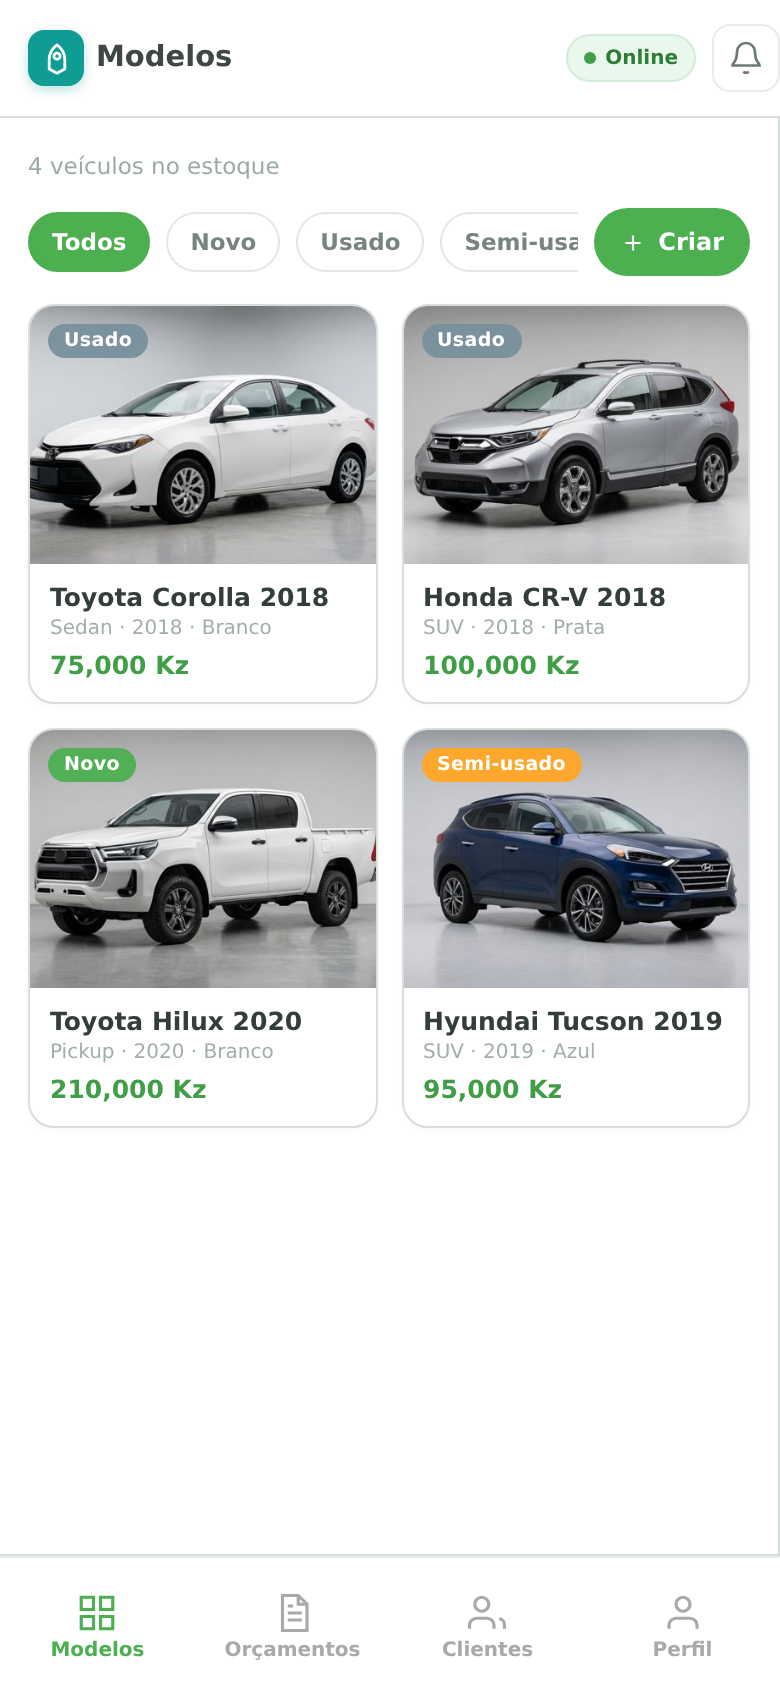
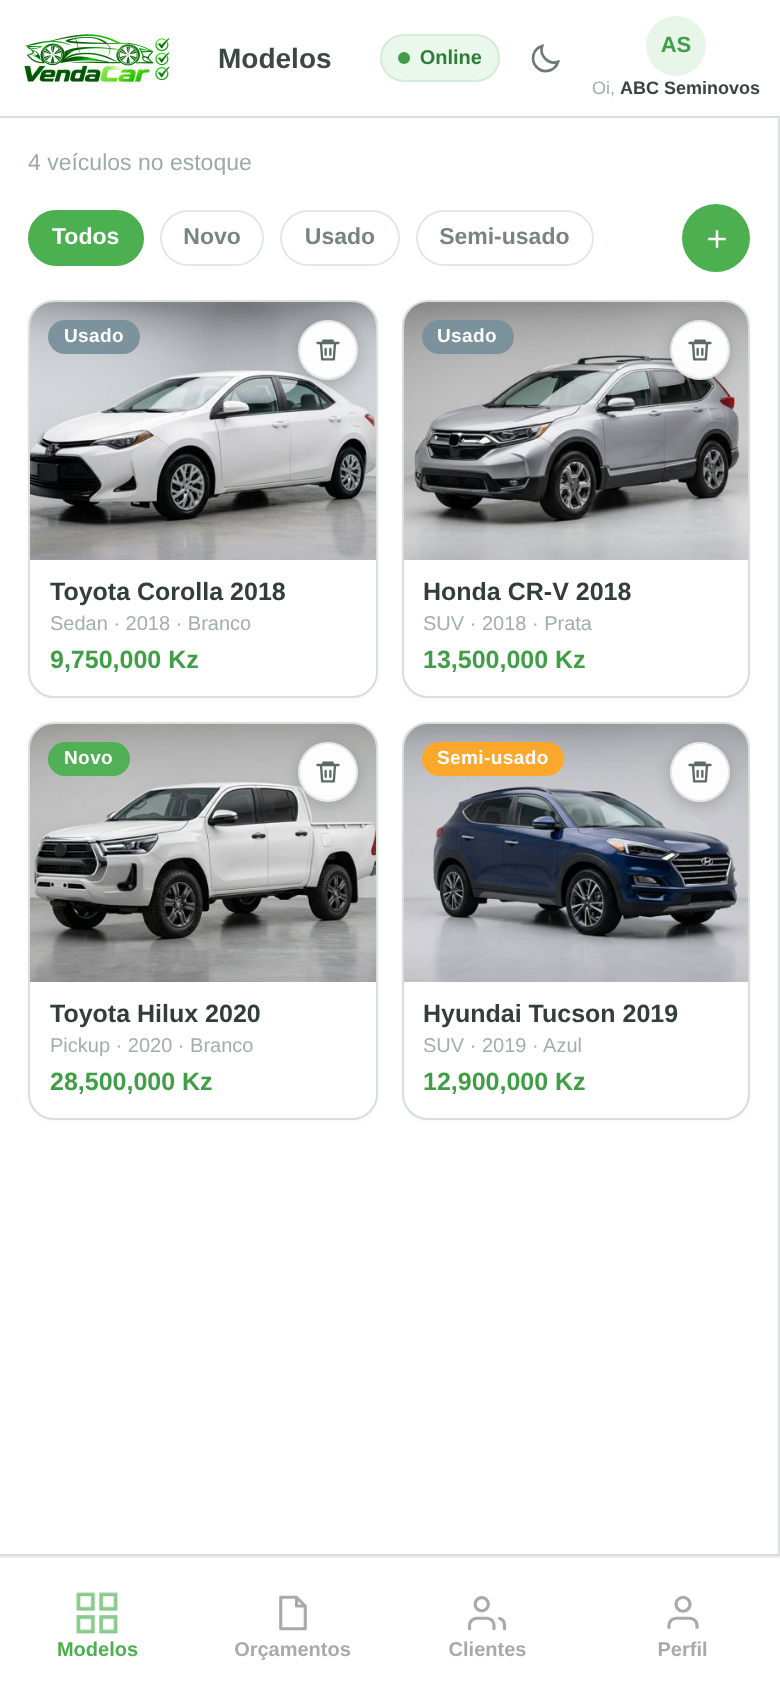
Mapa de paginas atualizado: 32 capturas reais (8 paginas x desktop/telemovel x claro/escuro)

diff --git a/paginas/mapa-temas.html b/paginas/mapa-temas.html
@@ -1,0 +1,179 @@
+<!DOCTYPE html>
+<html lang="pt">
+<head>
+<meta charset="utf-8">
+<style>
+  *{box-sizing:border-box;margin:0;padding:0}
+  body{width:1500px;font-family:"DejaVu Sans",Arial,sans-serif;color:#2B352F;background:#fff}
+
+  /* ---------- CAPA ---------- */
+  .hero{position:relative;height:300px;overflow:hidden;background:#07302c}
+  .hero img{width:100%;height:100%;object-fit:cover;object-position:right center;display:block;opacity:.9}
+  .hero .ov{
+    position:absolute;inset:0;display:flex;flex-direction:column;justify-content:center;padding:0 64px;
+    background:linear-gradient(90deg,rgba(5,38,34,.97) 0%,rgba(5,38,34,.92) 48%,rgba(5,38,34,.18) 84%,rgba(5,38,34,0) 100%);
+  }
+  .kick{font-size:13px;letter-spacing:3.4px;text-transform:uppercase;color:#7FE3C4;font-weight:700}
+  .hero h1{font-size:46px;line-height:1.06;color:#fff;font-weight:800;letter-spacing:-1px;margin:14px 0 10px}
+  .hero p{font-size:16.5px;color:#C8E6DA;max-width:720px;line-height:1.5}
+  .hero .meta{margin-top:16px;font-size:13px;color:#8FBDB0}
+
+  /* ---------- FAIXA ---------- */
+  .strip{display:flex;background:#3F9E46}
+  .strip div{flex:1;padding:18px 26px;border-right:1px solid rgba(255,255,255,.22)}
+  .strip div:last-child{border:0}
+  .strip b{display:block;font-size:30px;color:#fff;font-weight:800;line-height:1;letter-spacing:-.5px}
+  .strip span{display:block;margin-top:6px;font-size:12px;color:#E4F6E0}
+
+  /* ---------- SECÇÕES ---------- */
+  .sec{padding:38px 64px 0}
+  .sec h2{font-size:23px;color:#0E7A55;font-weight:800;letter-spacing:-.3px;display:flex;align-items:baseline;gap:11px}
+  .sec h2 em{font-style:normal;font-size:14px;color:#B7C7C0;letter-spacing:1px;font-weight:800}
+  .rule{height:3px;width:70px;background:#3F9E46;border-radius:2px;margin:9px 0 20px}
+  .sec .lead{font-size:15px;line-height:1.6;color:#46544C;max-width:1140px;margin-bottom:22px}
+
+  /* subtítulo de tema */
+  .tema{display:flex;align-items:center;gap:10px;margin:6px 0 16px}
+  .tema .dot{width:9px;height:9px;border-radius:50%}
+  .tema .dot.claro{background:#FFD166;box-shadow:0 0 0 3px #FDF3D6}
+  .tema .dot.escuro{background:#17375e;box-shadow:0 0 0 3px #E2EAF4}
+  .tema b{font-size:15.5px;color:#1F2A26;font-weight:800}
+  .tema span{font-size:12.5px;color:#7C8B85}
+
+  /* ---------- DESKTOP ---------- */
+  .dg{display:grid;grid-template-columns:1fr 1fr;gap:24px}
+  .shot{background:#fff;border:1px solid #D8DEDB;border-radius:12px;overflow:hidden}
+  .shot.dk{border-color:#17375e}
+  .shot img{width:100%;display:block}
+  .cap{display:flex;align-items:center;gap:9px;padding:11px 14px;border-top:1px solid #EDF1EF;background:#FBFCFB}
+  .cap .n{width:21px;height:21px;border-radius:50%;background:#3F9E46;color:#fff;font-size:11.5px;
+          font-weight:800;display:flex;align-items:center;justify-content:center;flex:0 0 auto}
+  .cap .t{font-size:13.5px;font-weight:800;color:#2B352F}
+  .cap .s{font-size:12px;color:#7C8B85;margin-left:auto}
+
+  /* ---------- MOBILE ---------- */
+  .band{background:#F4F8F6;margin-top:44px;padding:36px 64px 44px;border-top:1px solid #E3EBE7}
+  .band.dkb{background:#EEF2F7;border-top-color:#D9E3EF}
+  .band h2{font-size:23px;color:#0E7A55;font-weight:800}
+  .band p{font-size:14.5px;color:#46544C;line-height:1.6;margin-top:8px;max-width:1140px}
+  .mg{display:grid;grid-template-columns:repeat(4,1fr);gap:26px;margin-top:26px}
+  .phone .fr{border-radius:22px;overflow:hidden;border:5px solid #10241F;background:#10241F;
+             box-shadow:0 10px 26px rgba(16,36,31,.22)}
+  .phone.dk .fr{border-color:#0b2038;background:#0b2038;box-shadow:0 10px 26px rgba(11,32,56,.3)}
+  .phone img{width:100%;display:block}
+  .phone .c{text-align:center;margin-top:10px;font-size:12.5px;color:#5C6B64;font-weight:700}
+  .phone .c span{display:block;font-weight:600;font-size:11.5px;color:#93A39D;margin-top:2px}
+
+  /* ---------- RODAPÉ ---------- */
+  .foot{background:#07302c;color:#A9CFC4;padding:24px 64px;display:flex;justify-content:space-between;
+        align-items:center;margin-top:44px;font-size:12.5px}
+  .foot b{color:#fff;font-size:14px;display:block;margin-bottom:4px}
+</style>
+</head>
+<body>
+
+<section class="hero">
+  <img src="../proposta/img/capa.png" alt="">
+  <div class="ov">
+    <div class="kick">Mapa de páginas · claro e escuro</div>
+    <h1>Todas as páginas, nos dois temas</h1>
+    <p>As 8 páginas da aplicação Modelo no computador e no telemóvel, em modo claro e em modo escuro — 32 capturas reais do mesmo ficheiro HTML, sem maquetes.</p>
+    <div class="meta">ABC Seminovos · Luanda, Angola &nbsp;|&nbsp; Versão 1.0 &nbsp;|&nbsp; 07 de novembro de 2026</div>
+  </div>
+</section>
+
+<section class="strip">
+  <div><b>8</b><span>páginas</span></div>
+  <div><b>2</b><span>modos: desktop e telemóvel</span></div>
+  <div><b>2</b><span>temas: claro e escuro</span></div>
+  <div><b>32</b><span>capturas reais</span></div>
+</section>
+
+<!-- ================= COMPUTADOR ================= -->
+<section class="sec">
+  <h2><em>01</em> No computador</h2>
+  <div class="rule"></div>
+  <p class="lead">Barra lateral fixa, área de conteúdo com moldura cinzenta e appbar enxuta (tema + foto de perfil da loja). O mesmo esqueleto nos dois temas: no escuro, os painéis passam a azul-marinho, as molduras a azul e a página ativa fica verde.</p>
+
+  <div class="tema"><span class="dot claro"></span><b>Modo claro</b><span>fundo branco · molduras cinzentas · verde VendaCar</span></div>
+  <div class="dg">
+    <div class="shot"><img src="desktop/01-modelos.png" alt="">
+      <div class="cap"><span class="n">1</span><span class="t">Modelos</span><span class="s">Catálogo, filtros e “+”</span></div></div>
+    <div class="shot"><img src="desktop/02-detalhe.png" alt="">
+      <div class="cap"><span class="n">2</span><span class="t">Detalhe do Carro</span><span class="s">Galeria e ficha técnica</span></div></div>
+    <div class="shot"><img src="desktop/03-orcamento.png" alt="">
+      <div class="cap"><span class="n">3</span><span class="t">Orçamento</span><span class="s">Simulação · IVA 14% à parte</span></div></div>
+    <div class="shot"><img src="desktop/04-orcamentos.png" alt="">
+      <div class="cap"><span class="n">4</span><span class="t">Orçamentos</span><span class="s">Histórico de simulações</span></div></div>
+    <div class="shot"><img src="desktop/05-orcamento-edicao.png" alt="">
+      <div class="cap"><span class="n">5</span><span class="t">Orçamento · edição</span><span class="s">Detalhe e alteração</span></div></div>
+    <div class="shot"><img src="desktop/06-clientes.png" alt="">
+      <div class="cap"><span class="n">6</span><span class="t">Clientes</span><span class="s">Agrupados por telefone</span></div></div>
+    <div class="shot"><img src="desktop/07-cliente.png" alt="">
+      <div class="cap"><span class="n">7</span><span class="t">Cliente</span><span class="s">Orçamentos e reenvio</span></div></div>
+    <div class="shot"><img src="desktop/08-perfil.png" alt="">
+      <div class="cap"><span class="n">8</span><span class="t">Perfil</span><span class="s">Loja, foto e preferências</span></div></div>
+  </div>
+
+  <div class="tema" style="margin-top:34px"><span class="dot escuro"></span><b>Modo escuro</b><span>fundo azul-marinho · molduras azuis · página ativa em verde</span></div>
+  <div class="dg">
+    <div class="shot dk"><img src="desktop-escuro/01-modelos.png" alt="">
+      <div class="cap"><span class="n">1</span><span class="t">Modelos</span><span class="s">Catálogo, filtros e “+”</span></div></div>
+    <div class="shot dk"><img src="desktop-escuro/02-detalhe.png" alt="">
+      <div class="cap"><span class="n">2</span><span class="t">Detalhe do Carro</span><span class="s">Galeria e ficha técnica</span></div></div>
+    <div class="shot dk"><img src="desktop-escuro/03-orcamento.png" alt="">
+      <div class="cap"><span class="n">3</span><span class="t">Orçamento</span><span class="s">Simulação · IVA 14% à parte</span></div></div>
+    <div class="shot dk"><img src="desktop-escuro/04-orcamentos.png" alt="">
+      <div class="cap"><span class="n">4</span><span class="t">Orçamentos</span><span class="s">Histórico de simulações</span></div></div>
+    <div class="shot dk"><img src="desktop-escuro/05-orcamento-edicao.png" alt="">
+      <div class="cap"><span class="n">5</span><span class="t">Orçamento · edição</span><span class="s">Detalhe e alteração</span></div></div>
+    <div class="shot dk"><img src="desktop-escuro/06-clientes.png" alt="">
+      <div class="cap"><span class="n">6</span><span class="t">Clientes</span><span class="s">Agrupados por telefone</span></div></div>
+    <div class="shot dk"><img src="desktop-escuro/07-cliente.png" alt="">
+      <div class="cap"><span class="n">7</span><span class="t">Cliente</span><span class="s">Orçamentos e reenvio</span></div></div>
+    <div class="shot dk"><img src="desktop-escuro/08-perfil.png" alt="">
+      <div class="cap"><span class="n">8</span><span class="t">Perfil</span><span class="s">Loja, foto e preferências</span></div></div>
+  </div>
+</section>
+
+<!-- ================= TELEMÓVEL — CLARO ================= -->
+<section class="band">
+  <h2>No telemóvel · modo claro</h2>
+  <p>O mesmo ficheiro, adaptado: appbar única com título, estado “Online”, botão de tema e foto de perfil com o cumprimento “Oi, …”; menu inferior com as quatro áreas; grelha de 2 colunas e tabelas convertidas em cartões próprios para toque.</p>
+
+  <div class="mg">
+    <div class="phone"><div class="fr"><img src="mobile/01-modelos.png" alt=""></div><div class="c">Modelos<span>1</span></div></div>
+    <div class="phone"><div class="fr"><img src="mobile/02-detalhe.png" alt=""></div><div class="c">Detalhe do Carro<span>2</span></div></div>
+    <div class="phone"><div class="fr"><img src="mobile/03-orcamento.png" alt=""></div><div class="c">Orçamento<span>3</span></div></div>
+    <div class="phone"><div class="fr"><img src="mobile/04-orcamentos.png" alt=""></div><div class="c">Orçamentos<span>4</span></div></div>
+    <div class="phone"><div class="fr"><img src="mobile/05-orcamento-edicao.png" alt=""></div><div class="c">Orçamento · edição<span>5</span></div></div>
+    <div class="phone"><div class="fr"><img src="mobile/06-clientes.png" alt=""></div><div class="c">Clientes<span>6</span></div></div>
+    <div class="phone"><div class="fr"><img src="mobile/07-cliente.png" alt=""></div><div class="c">Cliente<span>7</span></div></div>
+    <div class="phone"><div class="fr"><img src="mobile/08-perfil.png" alt=""></div><div class="c">Perfil<span>8</span></div></div>
+  </div>
+</section>
+
+<!-- ================= TELEMÓVEL — ESCURO ================= -->
+<section class="band dkb" style="margin-top:0">
+  <h2>No telemóvel · modo escuro</h2>
+  <p>A mesma estrutura com a paleta azul-marinho: appbar e menu inferior escuros, cápsula “Online” verde-escura, barra de navegação com a área ativa em verde e cartões com moldura azul.</p>
+
+  <div class="mg">
+    <div class="phone dk"><div class="fr"><img src="mobile-escuro/01-modelos.png" alt=""></div><div class="c">Modelos<span>1</span></div></div>
+    <div class="phone dk"><div class="fr"><img src="mobile-escuro/02-detalhe.png" alt=""></div><div class="c">Detalhe do Carro<span>2</span></div></div>
+    <div class="phone dk"><div class="fr"><img src="mobile-escuro/03-orcamento.png" alt=""></div><div class="c">Orçamento<span>3</span></div></div>
+    <div class="phone dk"><div class="fr"><img src="mobile-escuro/04-orcamentos.png" alt=""></div><div class="c">Orçamentos<span>4</span></div></div>
+    <div class="phone dk"><div class="fr"><img src="mobile-escuro/05-orcamento-edicao.png" alt=""></div><div class="c">Orçamento · edição<span>5</span></div></div>
+    <div class="phone dk"><div class="fr"><img src="mobile-escuro/06-clientes.png" alt=""></div><div class="c">Clientes<span>6</span></div></div>
+    <div class="phone dk"><div class="fr"><img src="mobile-escuro/07-cliente.png" alt=""></div><div class="c">Cliente<span>7</span></div></div>
+    <div class="phone dk"><div class="fr"><img src="mobile-escuro/08-perfil.png" alt=""></div><div class="c">Perfil<span>8</span></div></div>
+  </div>
+</section>
+
+<footer class="foot">
+  <div><b>Modelo — orçamento de automóveis por WhatsApp</b>Capturas reais do app, em claro e escuro · sem elementos inventados</div>
+  <div style="text-align:right">Desktop 1440 px &nbsp;·&nbsp; Telemóvel 390 px<br>Dados de mercado de Luanda, nov/2026</div>
+</footer>
+
+</body>
+</html>
